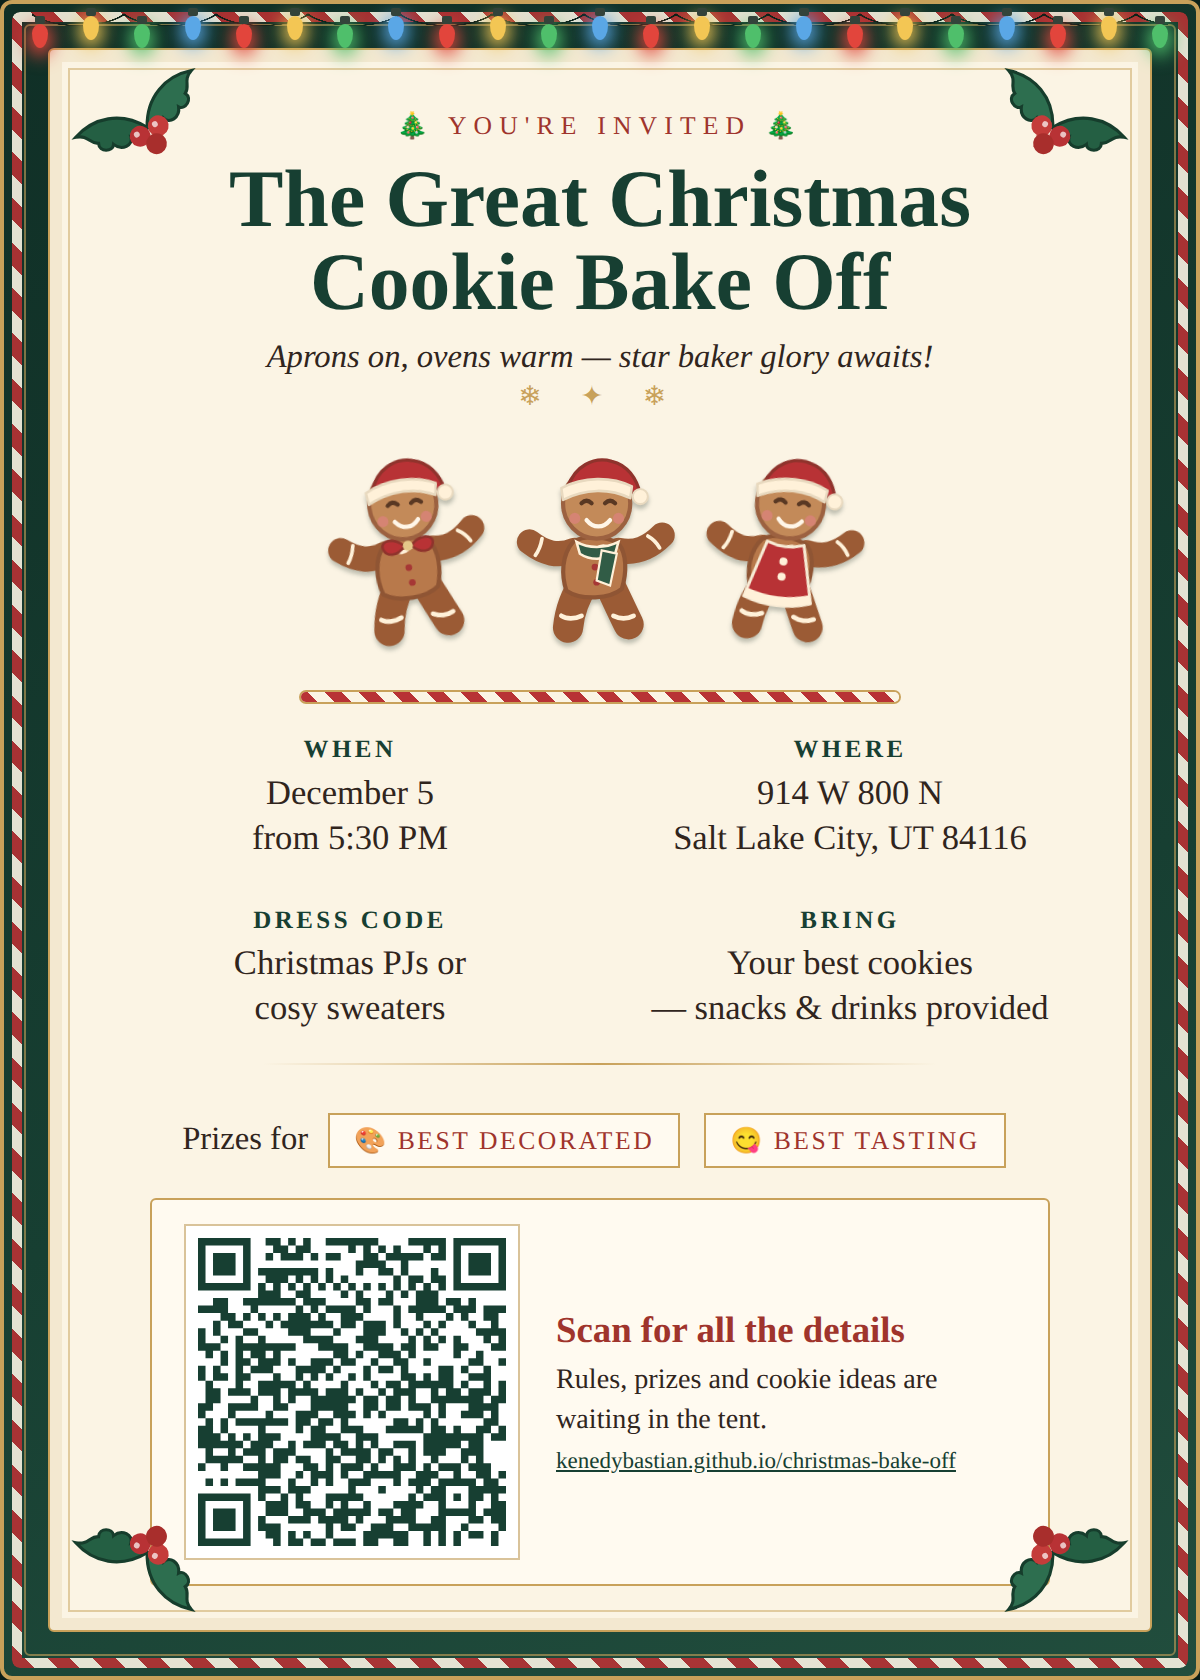
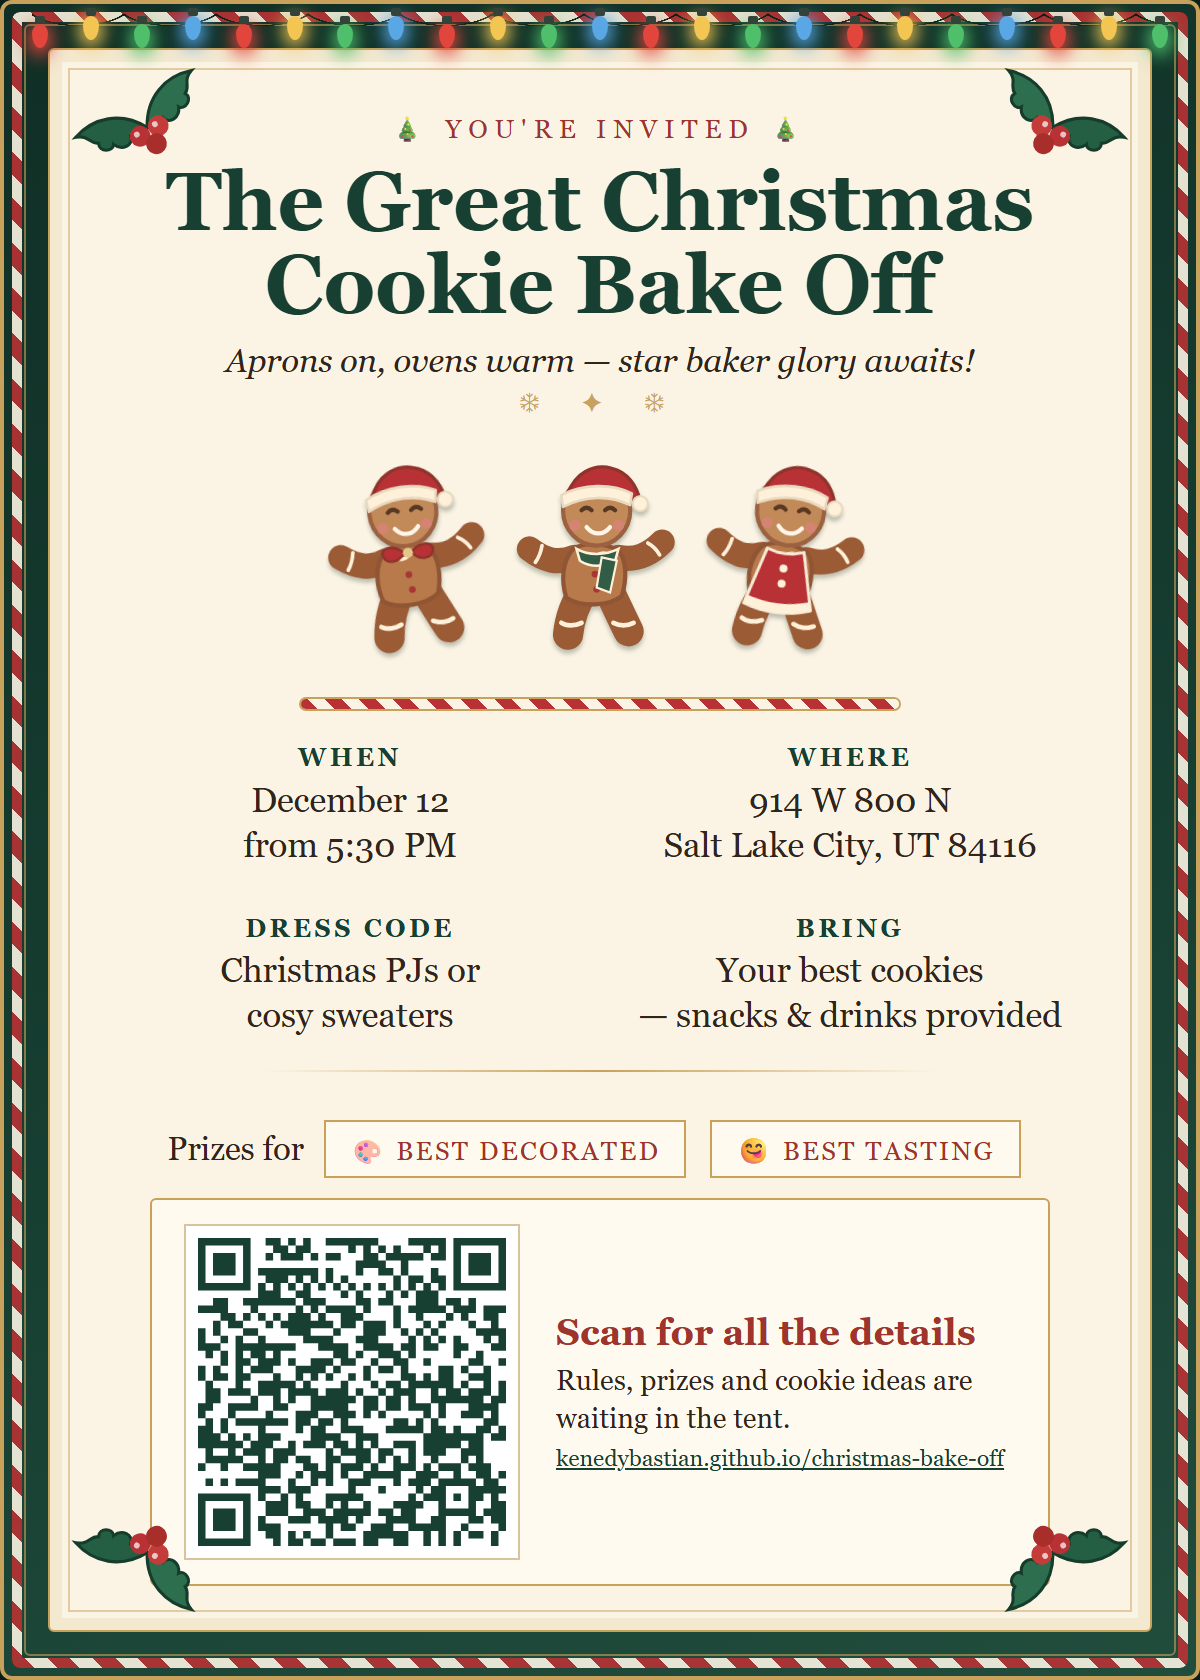
Move bake off back to December 12
Restore website date, countdown, and invite PNG to December 12.

diff --git a/index.html b/index.html
@@ -176,7 +176,7 @@
     <h2>🍪 Welcome to the Bake Tent!</h2>
     <p class="tent">Join us for an evening of biscuits, friendly judging and brilliant bakes. Bring a signature cookie, tackle the technical challenge, and save a showstopper for the judges!</p>
     <div class="details">
-      <div class="card"><div class="big">🕠</div><h3>When</h3><p><strong>December 5</strong><br>Starting at <strong>5:30 PM</strong></p></div>
+      <div class="card"><div class="big">🕠</div><h3>When</h3><p><strong>December 12</strong><br>Starting at <strong>5:30 PM</strong></p></div>
       <div class="card"><div class="big">📍</div><h3>Where</h3>
         <p><a href="https://www.google.com/maps/search/?api=1&query=914+W+800+N+Salt+Lake+City+UT+84116" target="_blank" rel="noopener">914 W 800 N<br>Salt Lake City, UT 84116</a></p></div>
       <div class="card dress-code"><div class="big">🧣</div><h3>Dress Code</h3><p><strong>Festive Christmas wear</strong><br>Christmas PJs or cosy sweaters &mdash; snug, comfy vibes only!</p></div>
@@ -308,7 +308,7 @@
   });
   document.getElementById('lights').innerHTML = '<span class="bulb"></span>'.repeat(28);
   const countdown = document.getElementById('countdown');
-  const bakeOff = new Date('2026-12-05T17:30:00-07:00');
+  const bakeOff = new Date('2026-12-12T17:30:00-07:00');
   const tick = () => {
     const ms = bakeOff - Date.now();
     if (ms <= 0) {

diff --git a/invite.html b/invite.html
@@ -89,7 +89,7 @@
     </div>
     <div class="rule candy"></div>
     <div class="facts">
-      <div><b>When</b>December 5<br>from 5:30 PM</div>
+      <div><b>When</b>December 12<br>from 5:30 PM</div>
       <div><b>Where</b>914 W 800 N<br>Salt Lake City, UT 84116</div>
       <div><b>Dress Code</b>Christmas PJs or<br>cosy sweaters</div>
       <div><b>Bring</b>Your best cookies<br>&mdash; snacks &amp; drinks provided</div>
